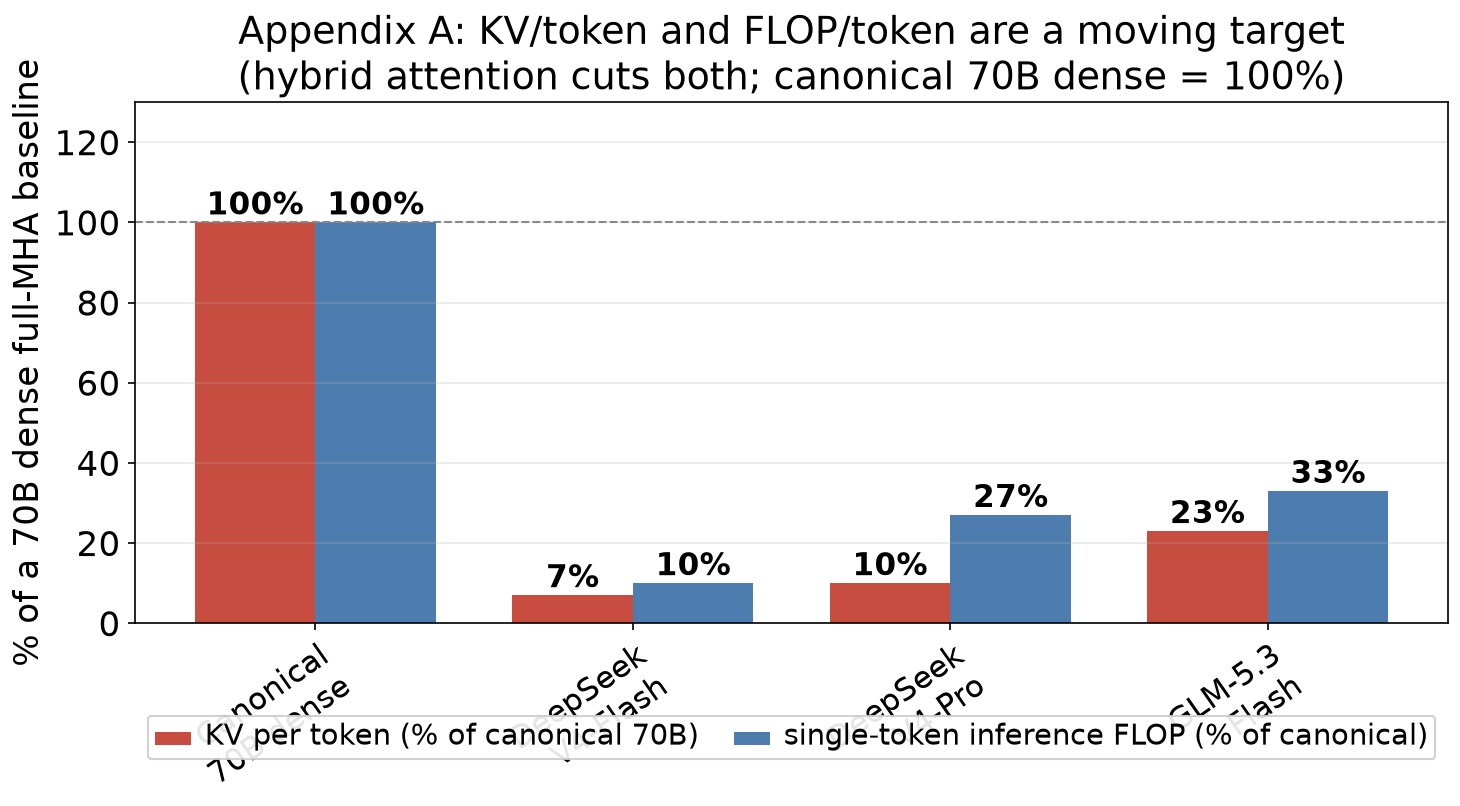
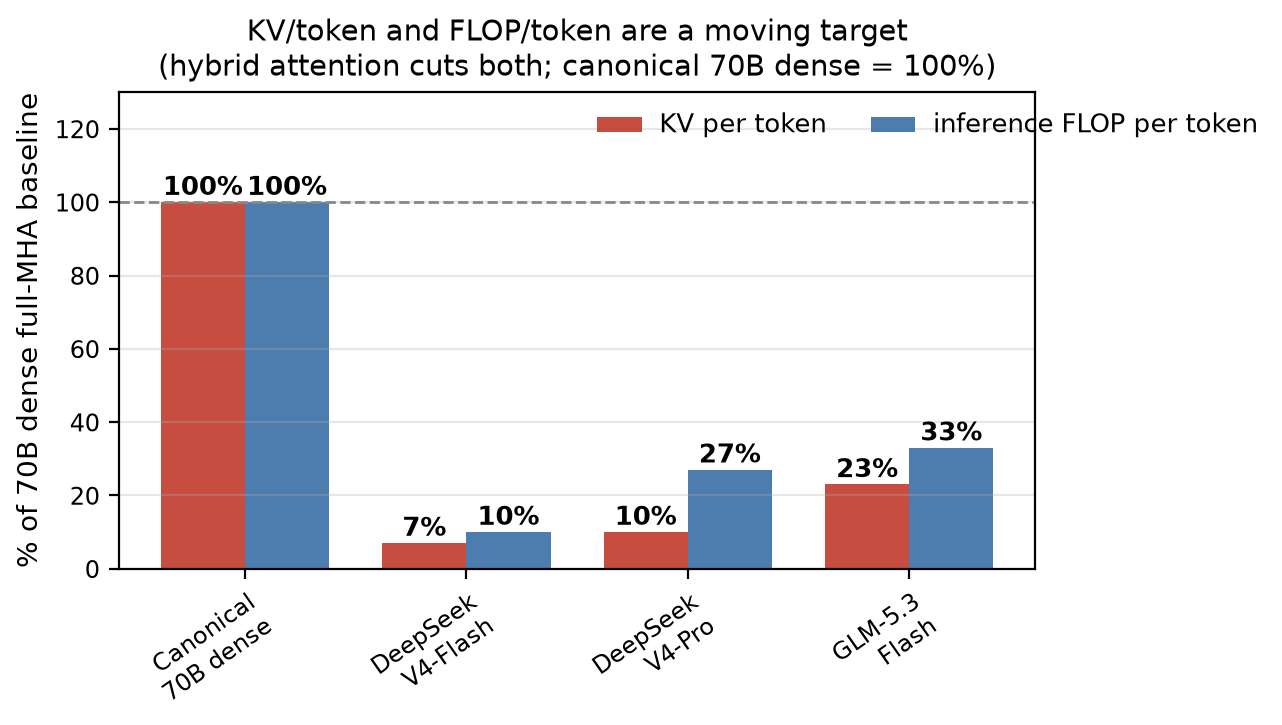
Fix Fig A.2(2704): legend above plot (clear of category labels), short labels, narrow 1:1 placement

Changed region(s): [[0.0, 0.0607, 0.9984, 0.971], [0.0936, 0.0, 0.9984, 0.2124], [0.0624, 0.5462, 0.0936, 0.6069]]

diff --git a/render/fig_ch27_norm.py b/render/fig_ch27_norm.py
@@ -4,33 +4,32 @@ import matplotlib.pyplot as plt
 import numpy as np
 
 # ---- fig-27-2704: normalized KV-per-token and FLOP-per-token vs canonical 70B dense (100%) ----
-# canonical 70B dense full-MHA = 100% KV, 100% FLOP/token baseline
-# Values from Appendix A verified 1P claims:
-#  DeepSeek-V4-Flash: KV ~7% of V3.2, FLOP ~10%  (arXiv 2606.19348)
-#  DeepSeek-V4-Pro:   KV ~10%,            FLOP ~27%
-#  GLM-5.3-Flash:     KV ~1/4.4 ~ 23%,    attention-compute ~1/3 ~ 33%  (HF zai-org)
+# Legend placed ABOVE the plot and category labels kept short so they never
+# collide.  Authored at ~6.1in so it places 1:1 (no downscale).
 models = ['Canonical\n70B dense', 'DeepSeek\nV4-Flash', 'DeepSeek\nV4-Pro', 'GLM-5.3\nFlash']
 kv = [100, 7, 10, 23]
 flop = [100, 10, 27, 33]
 
 x = np.arange(len(models))
 w = 0.38
-fig, ax = plt.subplots(figsize=(10, 5.6))
-b1 = ax.bar(x - w/2, kv, w, label='KV per token (% of canonical 70B)', color='#c0392b', alpha=0.9)
-b2 = ax.bar(x + w/2, flop, w, label='single-token inference FLOP (% of canonical)', color='#3a6ea5', alpha=0.9)
+fig, ax = plt.subplots(figsize=(6.3, 3.9))
+b1 = ax.bar(x - w/2, kv, w, label='KV per token', color='#c0392b', alpha=0.9)
+b2 = ax.bar(x + w/2, flop, w, label='inference FLOP per token', color='#3a6ea5', alpha=0.9)
 for bars in (b1, b2):
     for r in bars:
         ax.text(r.get_x() + r.get_width()/2, r.get_height() + 2, f'{int(r.get_height())}%',
-                ha='center', fontsize=9, fontweight='bold')
+                ha='center', fontsize=8, fontweight='bold')
 ax.set_xticks(x)
-ax.set_xticklabels(models, fontsize=9)
-ax.set_ylabel('% of a 70B dense full-MHA baseline')
+ax.set_xticklabels(models, fontsize=8)
+ax.set_ylabel('% of 70B dense full-MHA baseline', fontsize=8.5)
 ax.set_ylim(0, 130)
-ax.set_title('Appendix A: KV/token and FLOP/token are a moving target\n(hybrid attention cuts both; canonical 70B dense = 100%)', fontsize=11)
-ax.legend(fontsize=8.5, loc='upper center', bbox_to_anchor=(0.5, -0.16), ncol=2, framealpha=0.9)
+ax.set_title('KV/token and FLOP/token are a moving target\n(hybrid attention cuts both; canonical 70B dense = 100%)', fontsize=9)
+ax.legend(fontsize=8, loc='upper center', bbox_to_anchor=(0.5, 1.0), ncol=2, frameon=False)
 ax.grid(axis='y', alpha=0.3)
 ax.axhline(100, color='#888', ls='--', lw=1)
+ax.tick_params(labelsize=7.5)
 plt.tight_layout()
-plt.savefig('design/manuscript/chapter-27/figures/fig-27-2704.png', dpi=150)
+plt.savefig('design/manuscript/chapter-27/figures/fig-27-2704.png',
+            dpi=200, bbox_inches='tight', pad_inches=0.08)
 plt.close()
-print('wrote fig-27-2704')
+print('wrote fig-27-2704 (legend above, narrow)')
